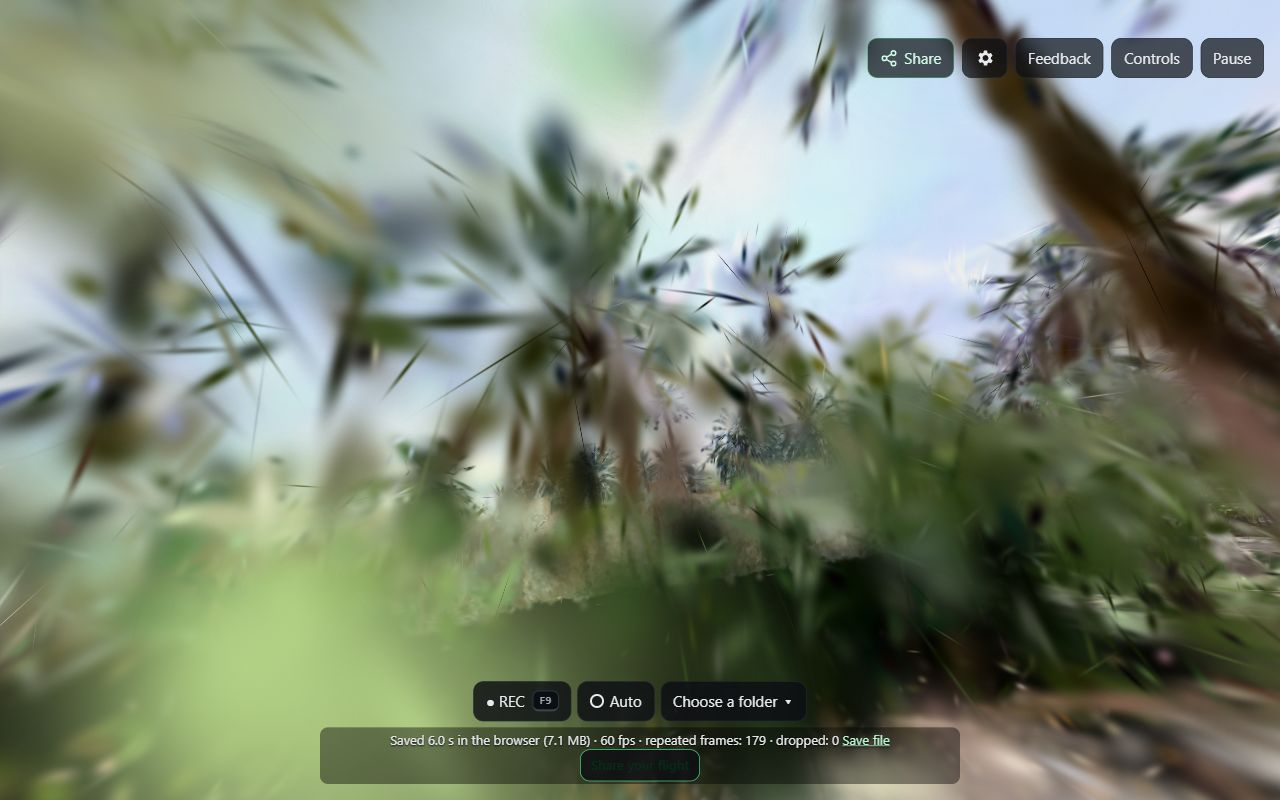
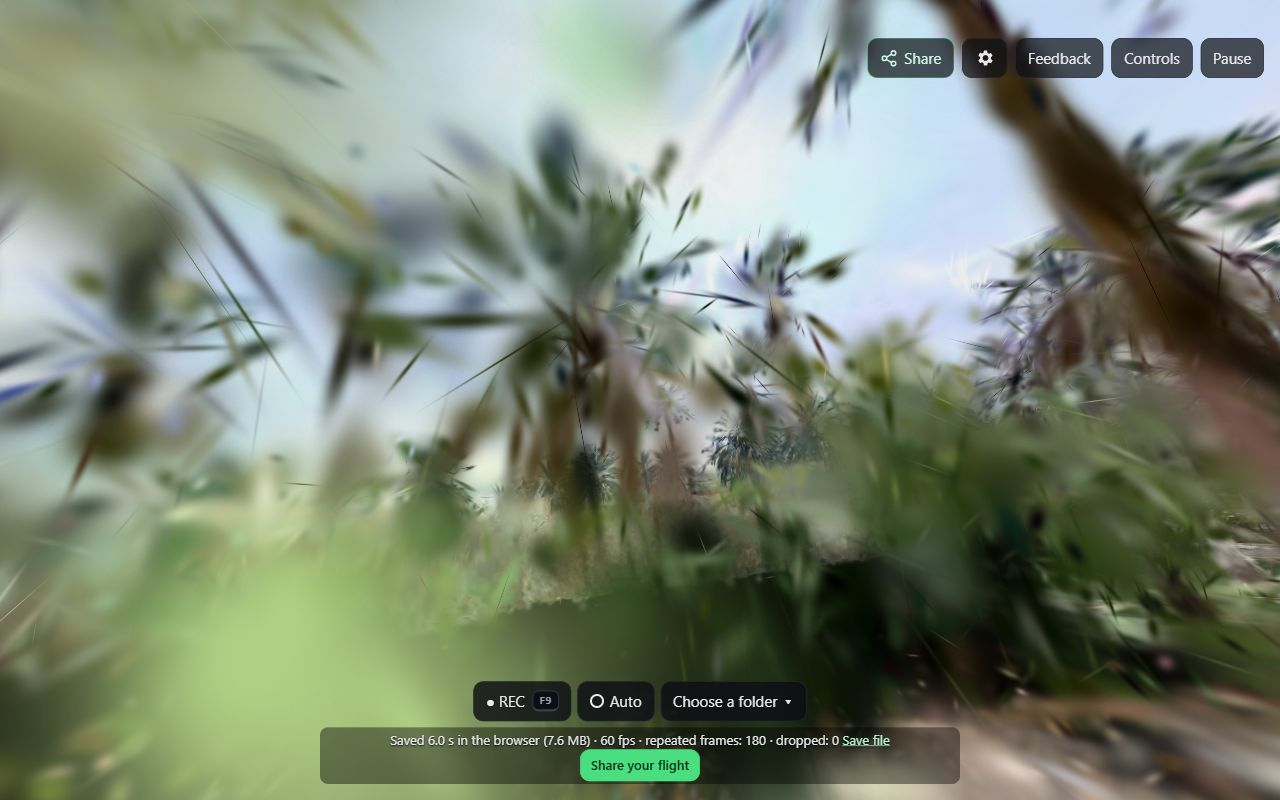
evidence (local, Chrome): S7 - an upright recording (500 x 1080) of the longest catalogue credit: 3 whole lines, nothing past x 464 (picture d1-ui/credit-portrait.png); control at e344977's recorder: one line cut at the frame's edge (credit-portrait-control-e344977.png). accept-d cinema passes with 

diff --git a/tools/bench/src/accept-v07-d1.ts b/tools/bench/src/accept-v07-d1.ts
@@ -18,8 +18,8 @@
 //   S1 also: Instagram with the clipboard API refused and the old execCommand copy working leaves the
 //       link in the link field. Control: e344977 left the caption there, its line breaks stripped by
 //       the input, evidence/2026-10-13/v07-d1-S1-control-e344977.json.
-//   S7  the burned-in credit is whole in an upright recording (a phone, 390 x 844 -> a 498 x 1080
-//       file at 1080p) of the catalogue's longest credit: a frame of the file (ffmpeg) has the text on
+//   S7  the burned-in credit is whole in an upright recording (a phone, 390 x 844 -> about 500 x
+//       1080 at 1080p) of the catalogue's longest credit: a frame of the file (ffmpeg) has the text on
 //       two lines or more and no letter at the right edge (the page is not drawn: the text is the only
 //       light thing in the frame). Picture: evidence/<date>/d1-ui/credit-portrait.png. Control:
 //       e344977's recorder (one clipped line), evidence/2026-10-13/v07-d1-S7-control-e344977.json.
@@ -281,7 +281,7 @@ if (want('S7')) {
         rows.forEach((r, i) => { if (i === 0 || r - rows[i - 1] > 3) lines++; });
         shape = { width: w, height: hgt, maxLitX: maxX, litRows: rows.length, lines };
     }
-    const pass = rec.width === 498 && rec.height === 1080 && shape.lines >= 2 && shape.maxLitX > 0 && shape.maxLitX < rec.width - 8 && String(rec.credit).includes('ShramkoGSFPV');
+    const pass = rec.height === 1080 && rec.width <= 540 && shape.lines >= 2 && shape.maxLitX > 0 && shape.maxLitX < rec.width - 8 && String(rec.credit).includes('ShramkoGSFPV');
     out.S7 = { pass, credit: rec.credit, frame: shape, picture: `evidence/${today()}/d1-ui/credit-portrait${tag}.png`, consoleErrors: errors };
     console.log('S7', pass ? 'PASS' : 'FAIL', JSON.stringify({ credit: rec.credit, shape }));
 }
